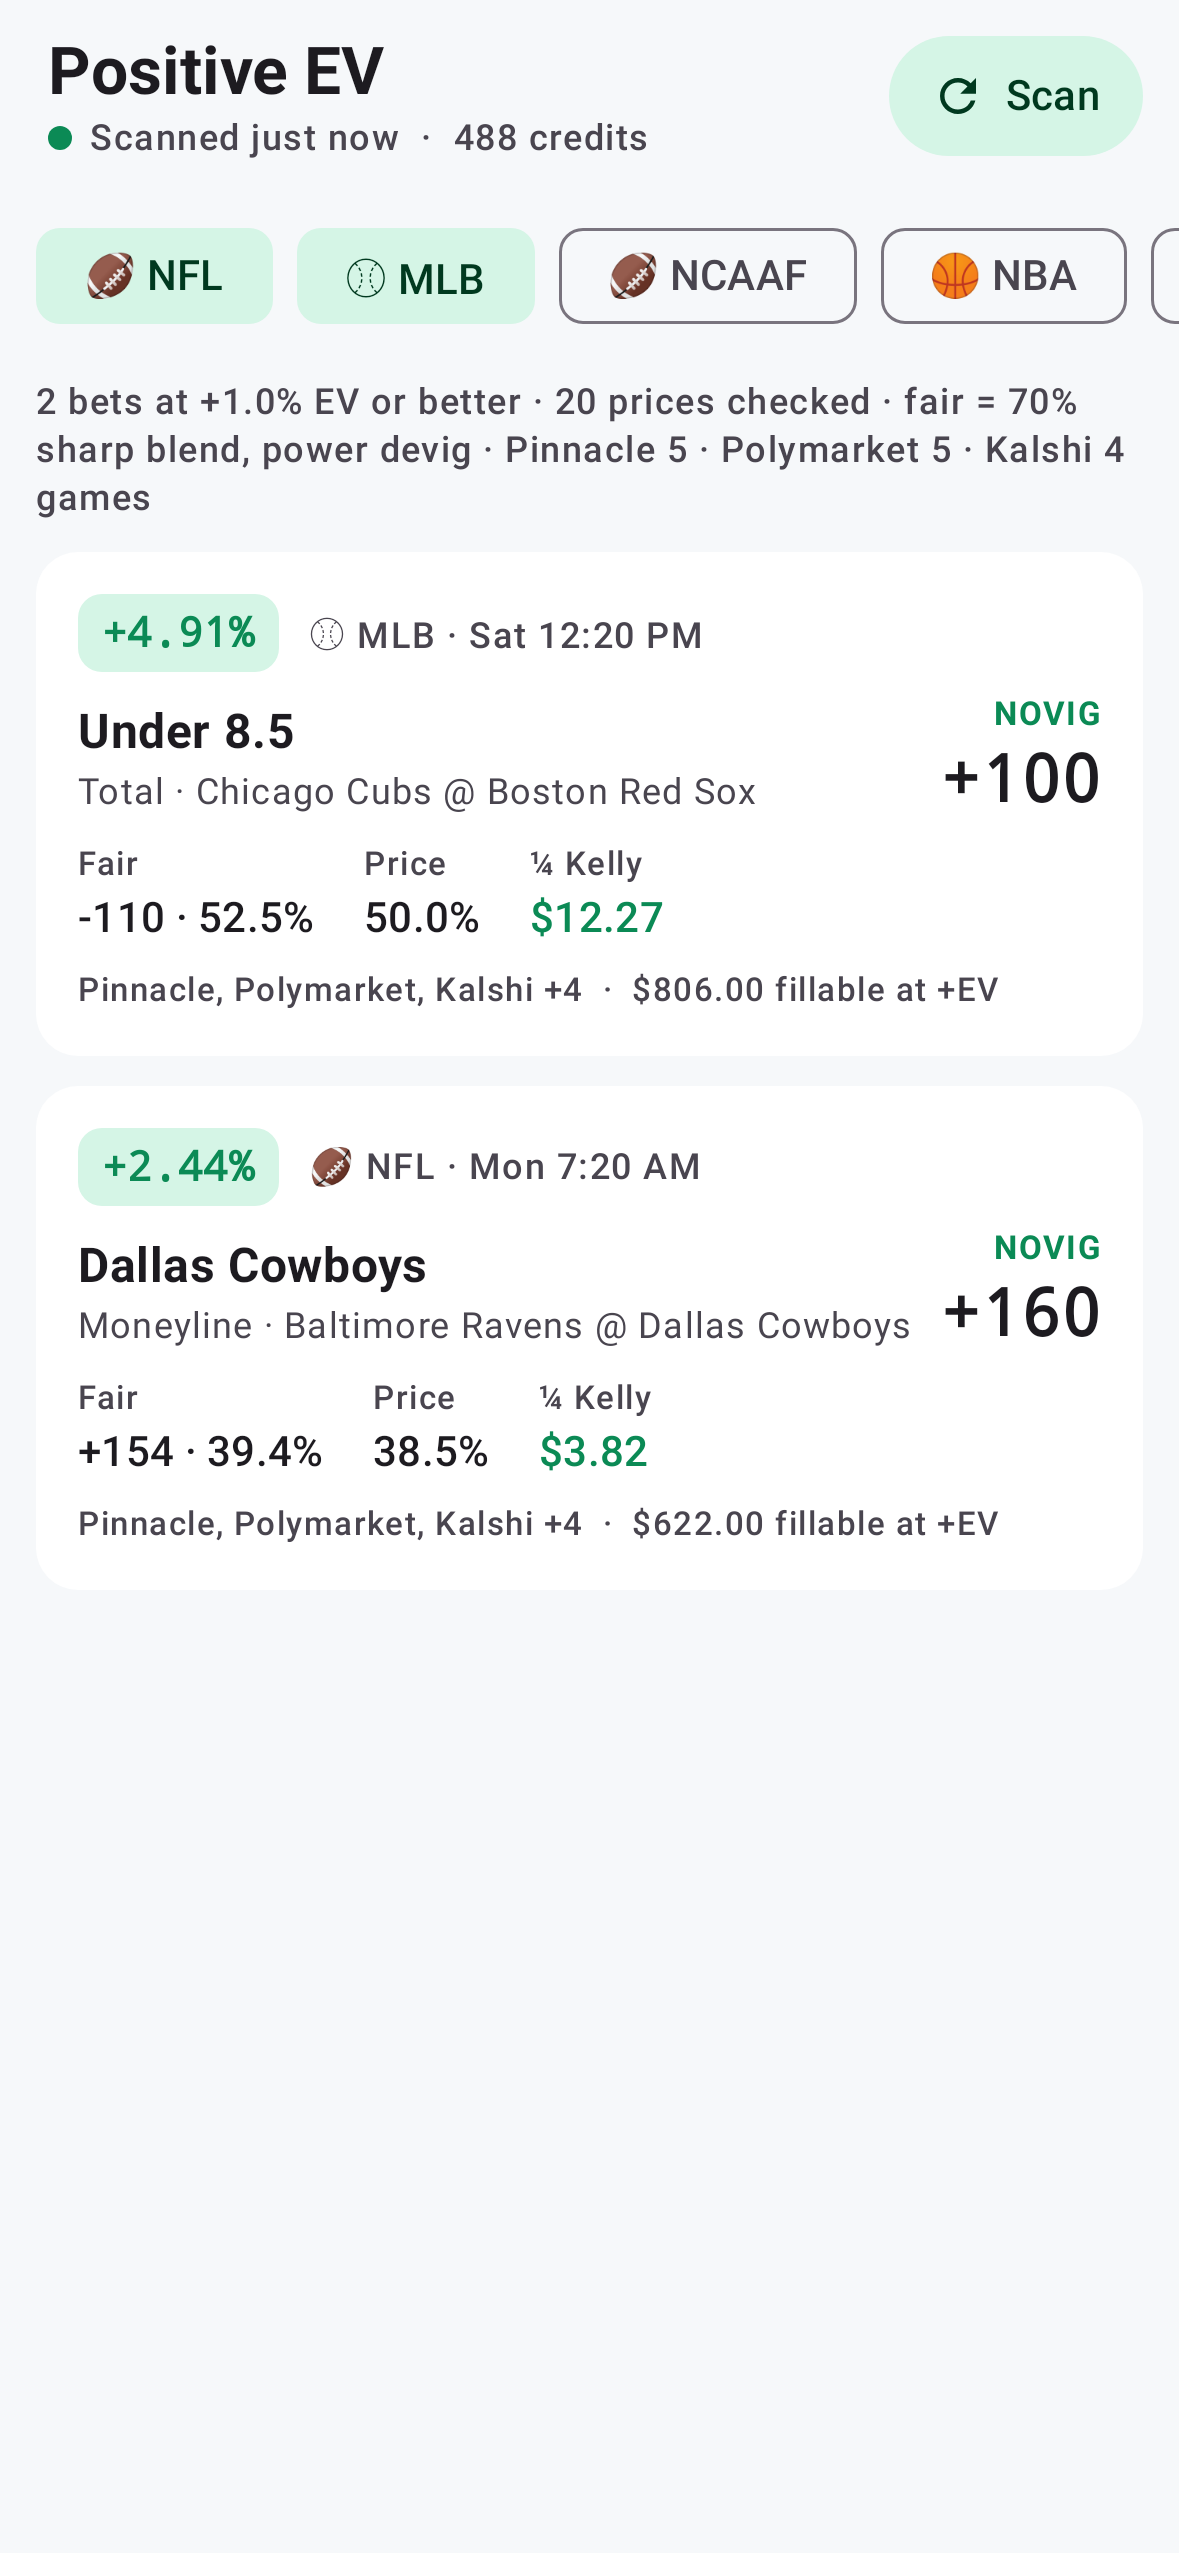
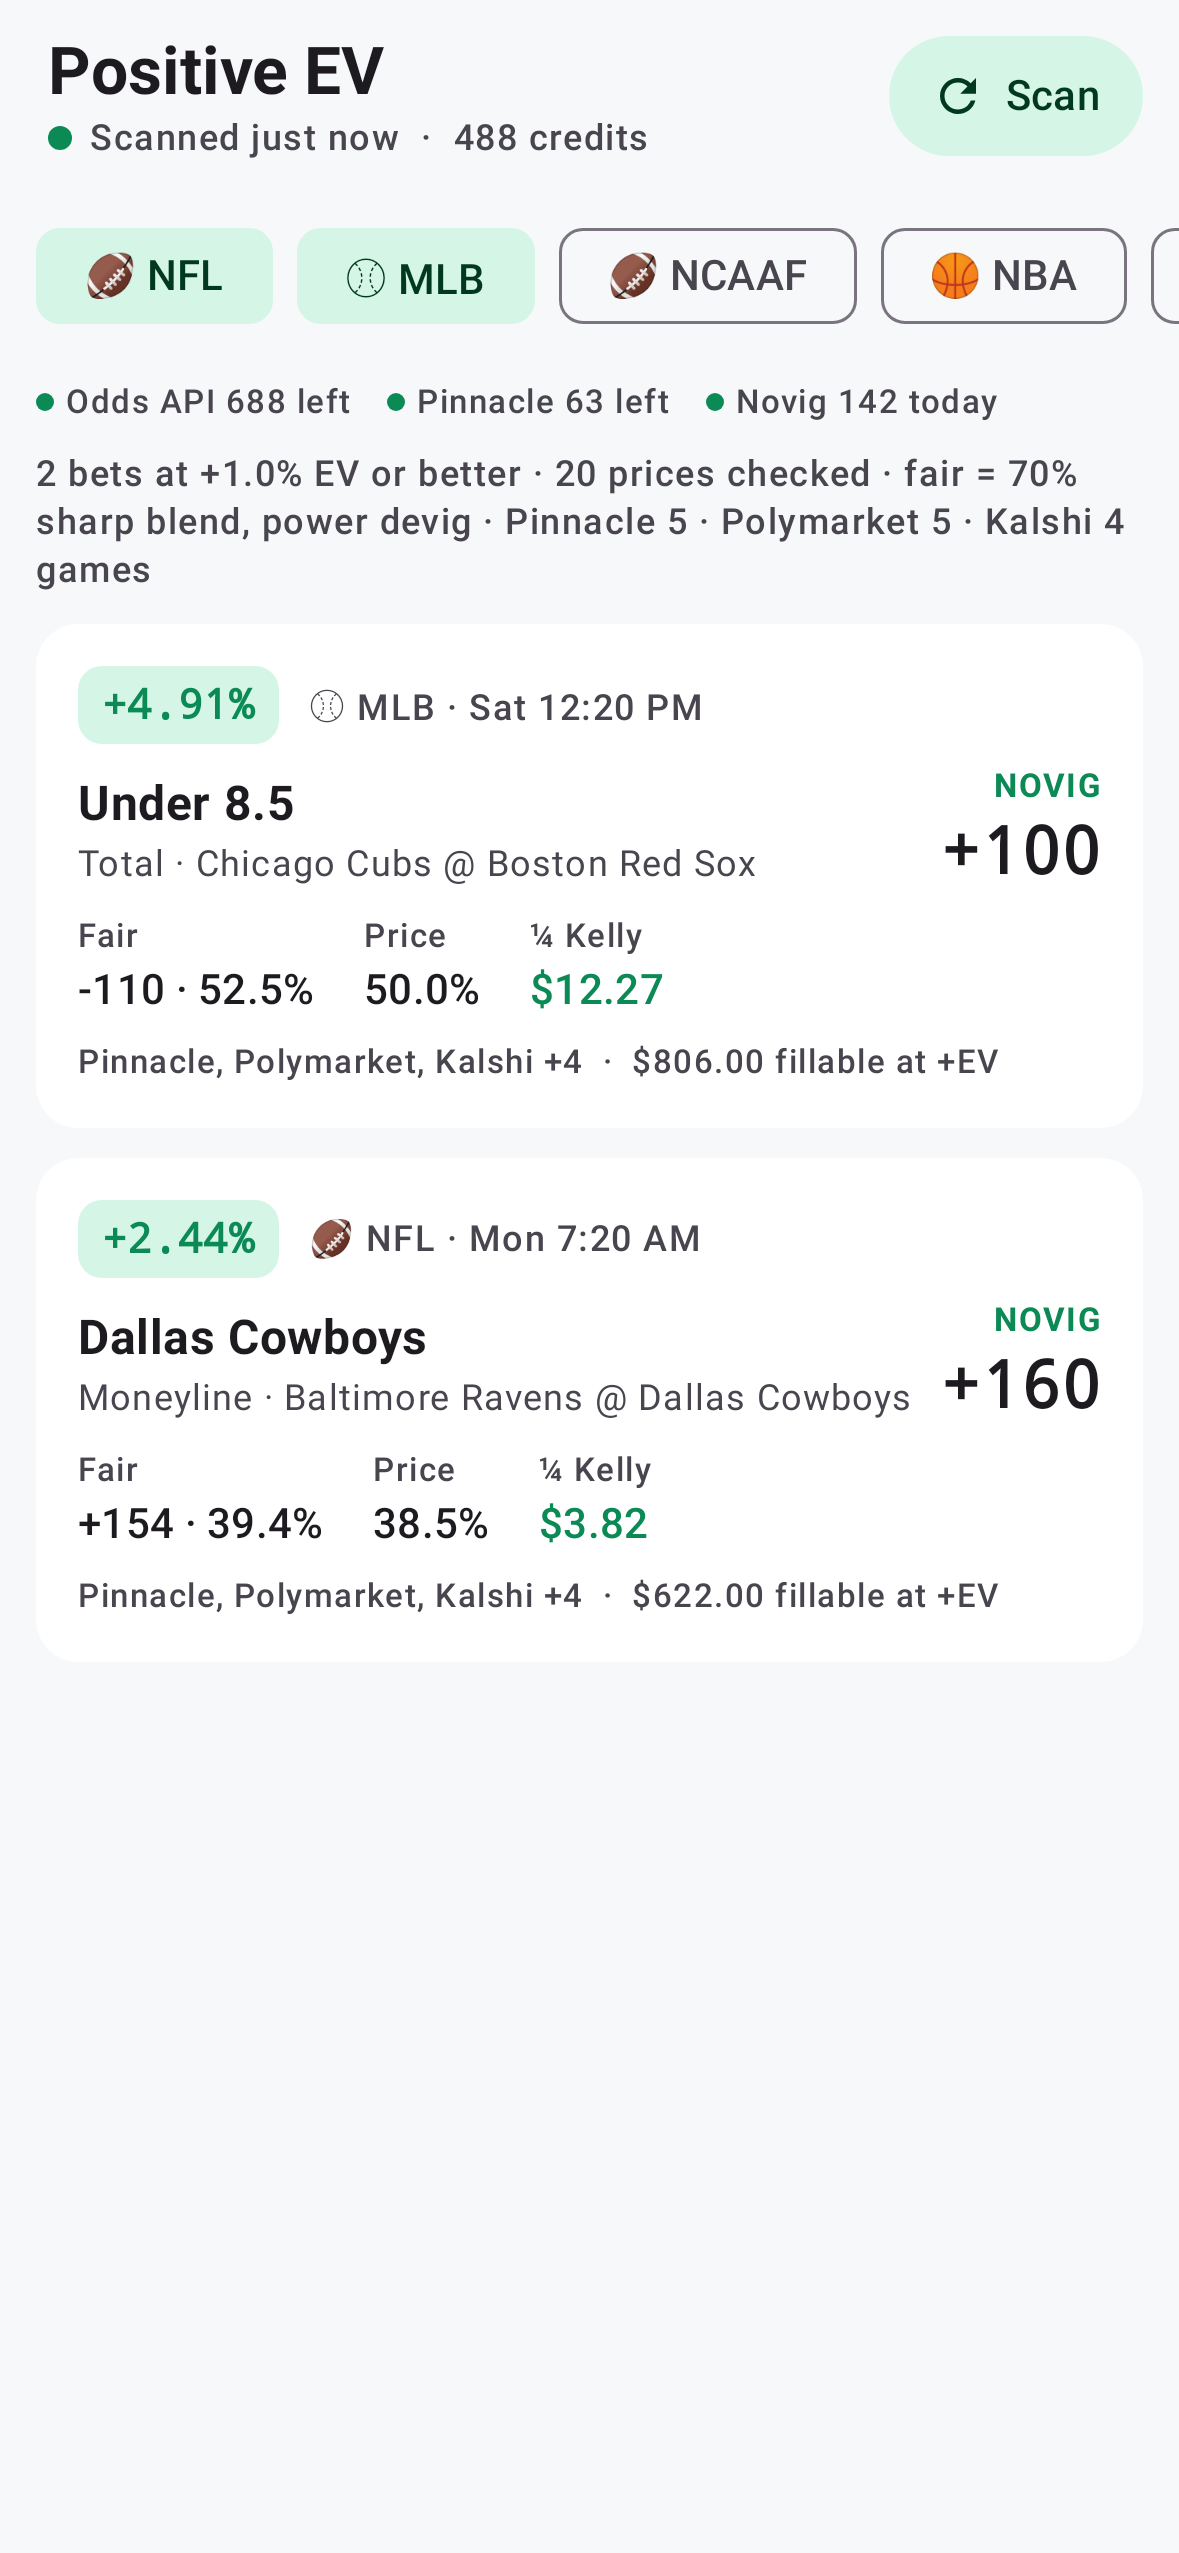
auto-checkpoint: 2026-09-25T14:51:54Z
Automatic hook checkpoint — not a reviewed commit. See CHECKPOINT.md
for where the session actually stands.

diff --git a/app/src/test/kotlin/com/tjshea/vigilant/app/SampleScan.kt b/app/src/test/kotlin/com/tjshea/vigilant/app/SampleScan.kt
@@ -1,5 +1,9 @@
 package com.tjshea.vigilant.app
 
+import com.tjshea.vigilant.data.keys.KeyUsage
+import com.tjshea.vigilant.data.keys.ProviderUsage
+import com.tjshea.vigilant.data.keys.QuotaPolicy
+import com.tjshea.vigilant.data.keys.UsageBook
 import com.tjshea.vigilant.data.novig.BidLevel
 import com.tjshea.vigilant.data.novig.NovigBook
 import com.tjshea.vigilant.data.novig.NovigEvent
@@ -123,10 +127,34 @@ object SampleScan {
             result = r,
             feed = r.feed(s),
             status = ScanStatus(scannedAtMs = NOW - 60_000, creditsRemaining = 488, sources = if (withFair) sources else emptyList(), booksFetched = 14),
-            oddsApiKeys = listOf("1234567890abcdef1234"),
+            oddsApiKeys = listOf("1234567890abcdef1234", "abcdefabcdefabcd5678"),
             pinnapiKeys = listOf("trial-key-sample-0001"),
+            usage = usage(),
             bets = bets,
             loaded = true,
+        )
+    }
+
+    /** A ledger mid-month: key 1 of The Odds API partly used, key 2 untouched; a busy scan day. */
+    fun usage(now: Long = System.currentTimeMillis()): UsageBook {
+        val month = QuotaPolicy.ODDS_API.periodStart(now)
+        val day = QuotaPolicy.PINNAPI.periodStart(now)
+        return UsageBook(
+            mapOf(
+                "oddsapi" to ProviderUsage(
+                    keys = mapOf(
+                        "1234567890abcdef1234" to KeyUsage(periodStart = month, used = 312, remaining = 188, limit = 500, calls = 104, lastCallMs = now - 60_000, lastCost = 3),
+                    ),
+                    dayStart = day, callsToday = 6,
+                ),
+                "pinnacle" to ProviderUsage(
+                    keys = mapOf("trial-key-sample-0001" to KeyUsage(periodStart = day, used = 37, calls = 37, lastCallMs = now - 60_000, lastCost = 1)),
+                    dayStart = day, callsToday = 37,
+                ),
+                "novig" to ProviderUsage(dayStart = day, callsToday = 142),
+                "polymarket" to ProviderUsage(dayStart = day, callsToday = 12),
+                "kalshi" to ProviderUsage(dayStart = day, callsToday = 9),
+            ),
         )
     }
 

diff --git a/app/src/test/kotlin/com/tjshea/vigilant/app/ScreenshotTest.kt b/app/src/test/kotlin/com/tjshea/vigilant/app/ScreenshotTest.kt
@@ -67,7 +67,21 @@ class ScreenshotTest {
     @Test fun tracker() = shoot("4_tracker") { TrackerScreen(SampleScan.state(), { _, _ -> }, {}) }
 
     @Config(qualifiers = "w393dp-h2200dp-xxhdpi")
-    @Test fun settings() = shoot("5_settings") { SettingsScreen(SampleScan.state(), {}, {}, {}) }
+    @Test fun settings() = shoot("5_settings") { SettingsScreen(SampleScan.state(), {}) }
+
+    @Config(qualifiers = "w393dp-h1300dp-xxhdpi")
+    @Test fun usageMeters() = shoot("5b_usage_meters") {
+        androidx.compose.foundation.layout.Column(androidx.compose.ui.Modifier.padding(16.dp)) {
+            com.tjshea.vigilant.app.ui.UsageSection(SampleScan.state())
+        }
+    }
+
+    @Test fun theMetersShowWhatsLeftPerKeyAndWhichKeyIsInUse() {
+        compose.setContent { VigilantTheme { com.tjshea.vigilant.app.ui.UsageSection(SampleScan.state()) } }
+        compose.onNodeWithText("688 credits left", substring = true).assertIsDisplayed()
+        compose.onNodeWithText("in use").assertIsDisplayed()
+        compose.onNodeWithText("142 requests today").assertIsDisplayed()
+    }
 
     @Test fun tappingACardOpensItsDetailWithTheBookBreakdown() {
         val s = SampleScan.state()

diff --git a/data/src/test/kotlin/com/tjshea/vigilant/data/keys/UsageMeterTest.kt b/data/src/test/kotlin/com/tjshea/vigilant/data/keys/UsageMeterTest.kt
@@ -150,4 +150,16 @@ class UsageMeterTest {
         assertEquals("ok", v)
         assertEquals(2, calls)
     }
+
+    @Test
+    fun `the meter view marks the key in use, the spent one, and totals what's left`() = runTest {
+        meter.recordCall(odds, "k1", 3, serverRemaining = 0, serverUsed = 500)
+        meter.recordCall(odds, "k2", 3, serverRemaining = 188, serverUsed = 312)
+        val v = UsageViews.build(odds, keys, meter.flow.value.providers["oddsapi"], now)
+        assertEquals(listOf(KeyState.SPENT, KeyState.ACTIVE, KeyState.STANDBY), v.keys.map { it.state })
+        assertEquals(0 + 188 + 500, v.totalLeft)
+        assertEquals(1, v.activeIndex)
+        assertEquals(Instant.parse("2026-10-01T00:00:00Z").toEpochMilli(), v.keys[0].until)
+        assertEquals("k1".let { UsageViews.mask(it) }, v.keys[0].masked)
+    }
 }
